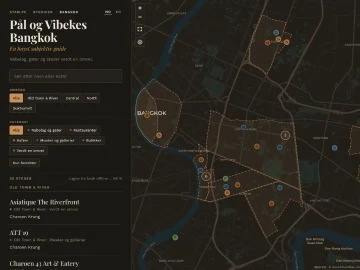
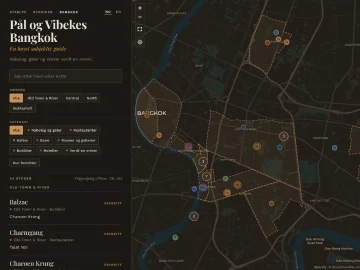
Bangkok: miniatyrer fra stam.pe, og Bangkok i NOTES, HANDOVER og CLAUDE

diff --git a/NOTES.md b/NOTES.md
@@ -5,9 +5,9 @@ Oppdateres ved slutten av hver økt (`/avslutt`).
 
 ## Status nå
 
-Sist oppdatert: 24. oktober 2026.
+Sist oppdatert: 28. oktober 2026.
 
-- Live på https://stam.pe/byguider/ med fem byer: London (215 oppføringer, hvorav 94 på ønskelista), Oslo (128, 22 på ønskelista), New York (77), Nice (67), Tokyo (53). Bangkok kommer.
+- Live på https://stam.pe/byguider/ med seks byer: London (215 oppføringer, hvorav 94 på ønskelista), Oslo (128, 22 på ønskelista), New York (77), Nice (67), Tokyo (53), Bangkok (36, 2 på ønskelista).
 - Appen er i hovedsak ferdig: MapLibre med papirpalett og mørk modus, nabolag med omriss, kjerne og gater,
   flyttbar infoboks, gåturer i infoboksen, ønskeliste for alle, norsk og engelsk.
 - Arbeidet nå er data: nye steder, favoritter, beskrivelser og nabolagsomriss. 18.10. fikk Oslo
@@ -31,6 +31,12 @@ Sist oppdatert: 24. oktober 2026.
   Senere samme kveld: Keyakizaka og hotellet Park Hyatt fjernet, Marunouchi og Yurakucho er favoritter.
 - 24.10. også: byguide-forsiden har «Byguidene er lagret på denne enheten · Slett» ved «Lagre alle byene»
   (PR #59 og #60). Slett gjelder bare byguidene; «Slett alt» ligger på stam.pe-forsiden.
+- 28.10.: Bangkok publisert (PR #62). Nabolagene ble definert ut fra Påls lagrede liste i Google Maps
+  (delt liste, lest med `maps/preview/entitylist/getlist`). Ni nabolag i sonene Old Town & River (Rattanakosin, Talat Noi,
+  Charoen Krung), Central (Silom, Sathorn, Pathum Wan), North (Ari) og Sukhumvit (Thonglor). Omrissene er kvartaler
+  og distrikter (khwaeng/khet) fra OSM der de passer; Talat Noi tar med Song Wat-stripa mellom elva og Sampheng,
+  og Ari og Thonglor er sporet langs gatene. Gatekunsten i Talat Noi er markert i Soi Charoen Krung 22.
+  Miniatyrer i lys og mørk.
 - Ingen åpne grener utenom `main`.
 
 ## Neste steg
@@ -38,7 +44,10 @@ Sist oppdatert: 24. oktober 2026.
 - Fyll på data etter hvert som Pål kommer med steder og navneendringer, i alle byer.
 - Tokyo: flere notater er bare én linje («Sushi.», «Bar.», «Moderne vietnamesisk.»). Fyll på når Pål har tekst.
   Bar Penguin, Apollo Bar, Kihara, Ăn Đi og Kosho SamenoHa mangler nettside.
-- stam.pe-forsiden (repo `paalstampe.github.io`) beskriver byguidene som «London, Nice, Oslo og New York». Tokyo mangler.
+- stam.pe-forsiden (repo `paalstampe.github.io`) beskriver byguidene som «London, Nice, Oslo og New York». Tokyo og Bangkok mangler.
+- Bangkok: notatene er korte utkast (mange bare «Kafé.»/«Galleri.»). Fyll på når Pål har tekst. Mangler nettside: some time blue cafe,
+  Charoen 43, Siwilai Store og Sarnies Roastery (bare Linktree). Homu (Charoen Krung 44) finnes ikke lenger på adressen; en «HOMU» ved
+  Sathorn/Lumphini kan være samme sted. Balzac har nesten samme adresse som Charoen 43 Art & Eatery; sjekk om Charoen 43 er borte.
 - Slett på byguide-forsiden er testet i Chromium, ikke i Safari på Mac. Pål sjekker der.
 - Nye nabolag trenger alltid et presist omriss i `data/<by>-geometri.geojson`; fremgangsmåten står i CLAUDE.md, Data.
 - Mulig etterarbeid: de 25 London-omrissene som ble beholdt (bl.a. Marylebone, Mayfair, Belgravia, Richmond, Kew Green)
@@ -51,6 +60,11 @@ Sist oppdatert: 24. oktober 2026.
 - Hrímnir – Fredensborg ligger øst for Maridalsveien (ved Vulkan), utenfor Fredensborg-omrisset.
 
 ## Beslutningslogg
+
+- 2026-10-28: Bangkok-nabolagene ble definert ut fra Påls lagrede steder i Google Maps. Bangkok har ingen offisielle nabolag,
+  så kvartalene (khwaeng) og distriktene (khet) brukes der de passer, ellers gater sporet i OSM.
+- 2026-10-28: Song Wat Road skal ligge inni Talat Noi, så nabolaget tar med stripa mellom elva og Sampheng (Soi Wanit 1).
+- 2026-10-28: Gater markeres som én enkel strek (ikke begge kjørebaner), og bare de som er verdt å gå: i Pathum Wan Lang Suan og Soi Ton Son.
 
 - 2026-09-27: Flerbys-arkitektur med én app.js og stubbmapper per by, og Leaflet → MapLibre. Grunnen var at én kodebase skal betjene alle byene, og at CARTO fases ut raster.
 - 2026-10-05: Lokale økter bruker localhost i stedet for forhåndsvisningen. Det er raskere, og ingen push trengs.

diff --git a/HANDOVER.md b/HANDOVER.md
@@ -7,7 +7,7 @@ Sist oppdatert: 4. oktober 2026 (New York som fjerde by, grenen `new-york`).
 
 ## 1. Målet
 
-En enkel nettbasert app som viser Pål og Vibekes byer — London først, så Nice, Oslo, New York og Tokyo — på kart,
+En enkel nettbasert app som viser Pål og Vibekes byer — London først, så Nice, Oslo, New York, Tokyo og Bangkok — på kart,
 med nabolag, steder i flere kategorier (kaféer, parker, butikker, markeder, gallerier)
 og markerte gater og gåturer. Skal kunne deles via lenke uten innlogging.
 
@@ -44,13 +44,15 @@ byguider/
 ├── oslo/index.html
 ├── new-york/index.html
 ├── tokyo/index.html
+├── bangkok/index.html
 ├── data/
 │   ├── london.md                 kilden: steder, notater, soner, metadata
 │   ├── london-geometri.geojson   områder, gater, gåturer (koblet på navn)
 │   ├── nice.md / nice-geometri.geojson   tomme, metadata utfylt
 │   ├── oslo.md / oslo-geometri.geojson
 │   ├── new-york.md / new-york-geometri.geojson   soner Uptown, Midtown, Downtown, Brooklyn
-│   └── tokyo.md / tokyo-geometri.geojson         soner Central, West, East
+│   ├── tokyo.md / tokyo-geometri.geojson         soner Central, West, East
+│   └── bangkok.md / bangkok-geometri.geojson     soner Old Town & River, Central, North, Sukhumvit
 ├── README.md
 └── HANDOVER.md             dette dokumentet
 ```
@@ -148,7 +150,9 @@ feature sier hvilken: London — bydelenes conservation areas (planning.data.gov
 Neighborhood Tabulation Areas 2020 og Landmarks-kommisjonens historiske distrikter (NYC Open Data); Oslo — byleksikon
 og kommunale kilder; Nice — ingen offisielle kvartalsgrenser for Carré d'Or/Le Petit Marais, så gategrenser;
 Tokyo — de offisielle chōme-grensene fra folketellingen 2020 (e-Stat, «小地域» shapefiler per bydel), slått sammen
-per nabolag; kjernene i Tomigaya og Yanaka følger gatene i OSM.
+per nabolag; kjernene i Tomigaya og Yanaka følger gatene i OSM. Bangkok — kvartalene (khwaeng) og distriktene (khet)
+som administrative grenser i OSM (Rattanakosin, Talat Noi, Charoen Krung, Silom, Sathorn, Pathum Wan); Song Wat-stripa
+i Talat Noi, Ari og Thonglor er sporet langs gatene i OSM.
 
 Koordinatrekkefølge: **md-fila bruker breddegrad, lengdegrad** (Google-rekkefølge);
 GeoJSON-fila bruker lengdegrad, breddegrad. Parseren snur md-koordinatene.

diff --git a/CLAUDE.md b/CLAUDE.md
@@ -3,7 +3,7 @@ Gjeldende status (lastes inn automatisk):
 
 # Byguider — arbeidsregler for Claude
 
-Pål og Vibekes byguider (London, Nice, Oslo, New York, Tokyo) på kart. Live på https://stam.pe/byguider/.
+Pål og Vibekes byguider (London, Nice, Oslo, New York, Tokyo, Bangkok) på kart. Live på https://stam.pe/byguider/.
 Løpende status, neste steg, åpne spørsmål og beslutningslogg: NOTES.md (oppdateres ved slutten av hver økt).
 Les HANDOVER.md før større endringer — den har datamodell, design og teknikk.
 Hold HANDOVER.md oppdatert når noe vesentlig endres i teknikk eller design (f.eks. punkt 10.5).
@@ -94,6 +94,7 @@ Playwright med `colorScheme: 'light'` og `'dark'`. Ta bildene fra stam.pe etter 
      ligger i EPSG:2263 og må regnes om). Oslo: oslobyleksikon.no, lokalhistoriewiki.no, kommunen.
      Tokyo: chōme-grensene fra folketellingen 2020 (e-Stat, statmap-search, shapefil per bydel, JGD2011 ≈ WGS84),
      slått sammen per nabolag.
+     Bangkok: kvartalene (khwaeng) og distriktene (khet) som administrative grenser i OpenStreetMap (Overpass).
   2. Passer en offentlig grense med nabolaget, bruk den (gjerne som kjerne hvis den er smalere enn nabolaget).
   3. Ellers: velg grensegatene og spor dem i OSM (Overpass) fra kryss til kryss, så omrisset følger gatene og
      kystlinjen. Hovedgaten skal ligge inni, ikke være kanten, når butikkene ligger på begge sider.
